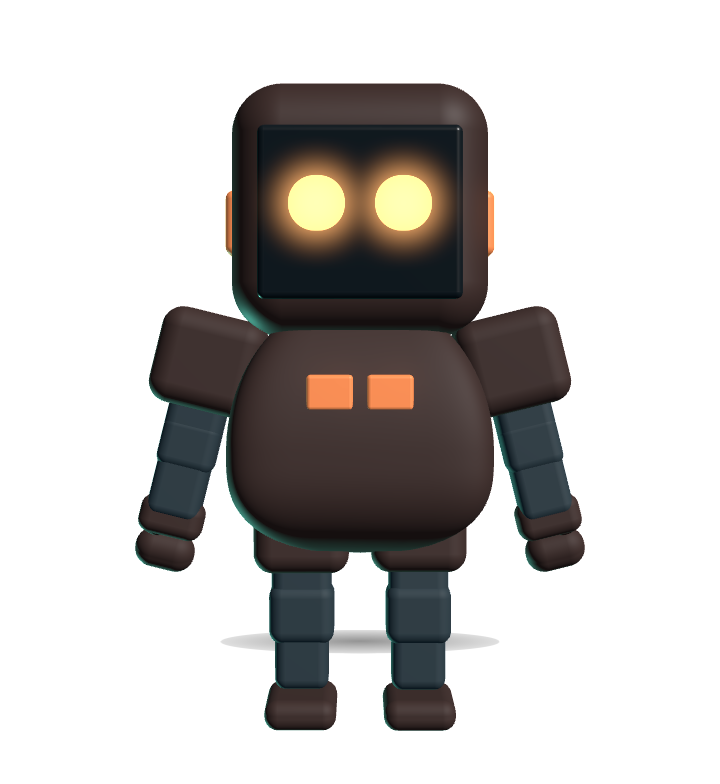
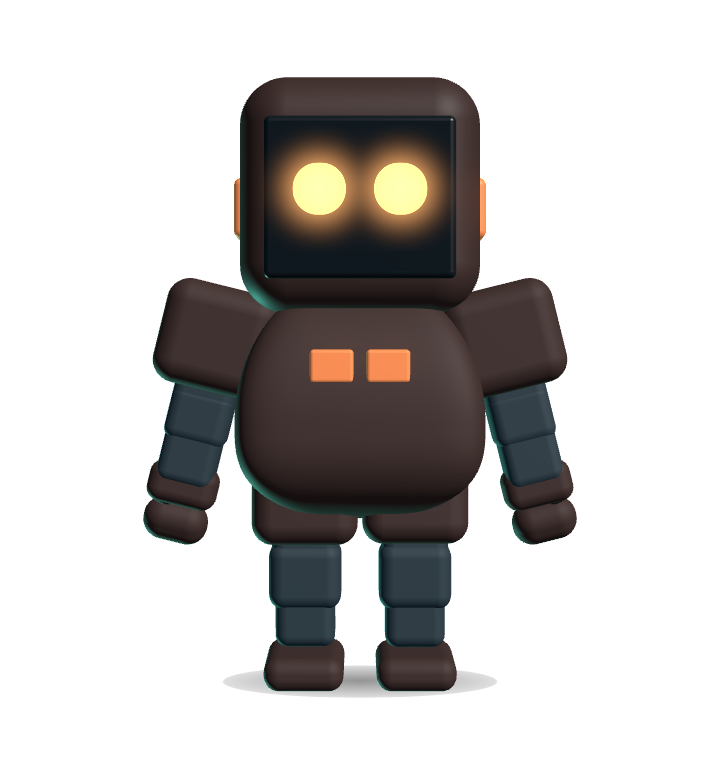
Put the shadow back under the feet, and thicken the limbs again
The shadow's height was a number typed in beside the legs rather than derived
from them, so every time the legs grew it stayed where it was. By now it was
sitting at the knees. It is walked down the same chain the legs are built from,
along with how far forward the feet sit and how wide the pair of them is, so it
cannot drift again. The camera came back to make room for the longer legs, and
the landing page renders were rebuilt from the new shape.

Changed region(s): [[0.1833, 0.0918, 0.825, 0.949]]

diff --git a/app/Sources/Squawk/Companion3D/CompanionScene.swift b/app/Sources/Squawk/Companion3D/CompanionScene.swift
@@ -53,10 +53,32 @@ final class CompanionScene {
         static let headDepth = CGFloat(0.78)
         static let neck = CGFloat(0.30)
         static let armLength = CGFloat(0.32)
-        static let armThickness = CGFloat(0.128)
+        static let armThickness = CGFloat(0.148)
         static let legLength = CGFloat(0.32)
-        static let legThickness = CGFloat(0.132)
+        static let legThickness = CGFloat(0.156)
         static let hipSpread = CGFloat(0.22)
+
+        /// Where the soles actually are, walked down the same chain the legs
+        /// are built from. The shadow used to be a number typed in beside them,
+        /// so every time the legs changed length it stayed where it was: by the
+        /// time the legs had grown it was sitting at the knees.
+        static var soleY: CGFloat {
+            let hip = -CGFloat(body.y) * 0.40
+            let knee = hip - legLength
+            let ankle = knee - legLength * 0.9
+            let foot = ankle - legThickness * 0.42
+            return foot - legThickness * 0.85 / 2
+        }
+
+        /// How far forward the feet sit, so the shadow is under them rather
+        /// than under the hips.
+        static var soleZ: CGFloat { legThickness * 0.55 }
+
+        /// Wide enough to cover both feet with a little spread.
+        static var shadowSize: CGSize {
+            CGSize(width: (hipSpread + legThickness) * 2 + 0.34,
+                   height: (legThickness * 3.0) + 0.26)
+        }
         /// How square every rounded section is. 2 is a ball; this is a robot,
         /// and its face is a rounded square, so its body answers to that.
         static let squareness = CGFloat(7.0)
@@ -504,7 +526,7 @@ final class CompanionScene {
     /// A drawn shadow rather than a cast one. Shadow mapping on a transparent
     /// window puts a grey square behind everything, and this is one ellipse.
     private func buildShadow() {
-        let plane = SCNPlane(width: 1.05, height: 0.58)
+        let plane = SCNPlane(width: Size.shadowSize.width, height: Size.shadowSize.height)
         let material = SCNMaterial()
         material.lightingModel = .constant
         material.diffuse.contents = Self.shadowImage()
@@ -513,7 +535,7 @@ final class CompanionScene {
         plane.materials = [material]
         shadow.geometry = plane
         shadow.eulerAngles = SCNVector3(-CGFloat.pi / 2, 0, 0)
-        shadow.position = SCNVector3(0, -0.82, 0.04)
+        shadow.position = SCNVector3(0, Size.soleY, Size.soleZ)
         shadow.renderingOrder = -10
         root.addChildNode(shadow)
     }
@@ -728,7 +750,7 @@ final class CompanionScene {
         camera.bloomBlurRadius = 14
         camera.wantsExposureAdaptation = false
         cameraNode.camera = camera
-        cameraNode.position = SCNVector3(0, 0.12, 6.2)
+        cameraNode.position = SCNVector3(0, 0.02, 6.6)
         scene.rootNode.addChildNode(cameraNode)
     }
 
